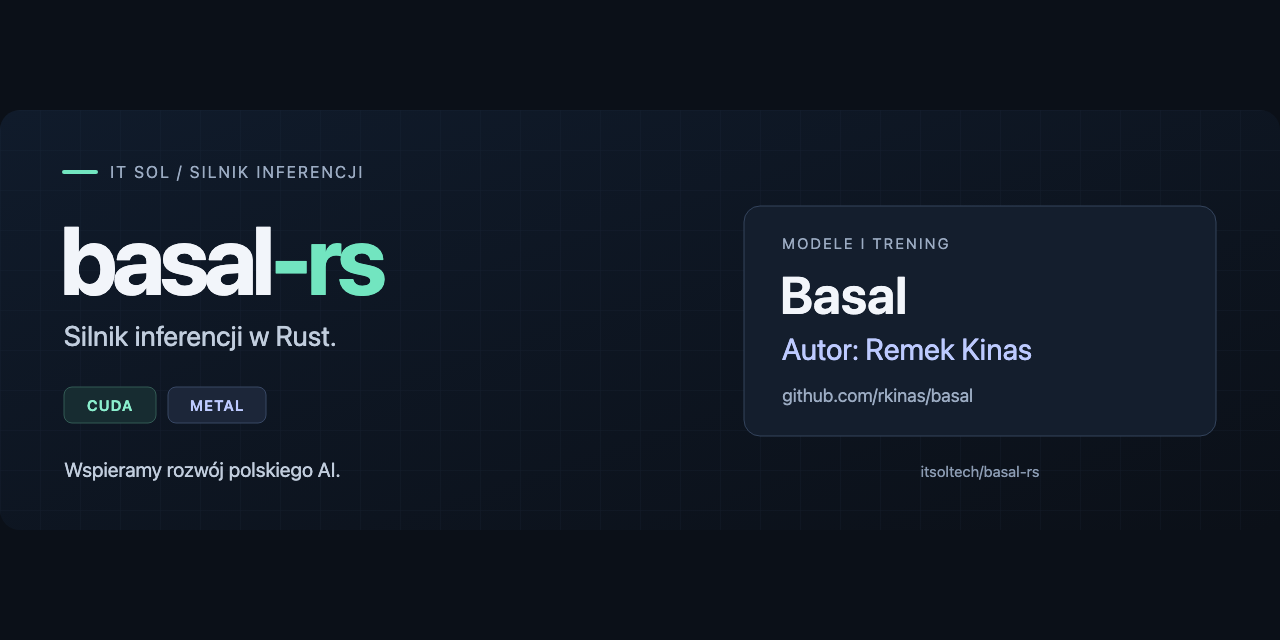
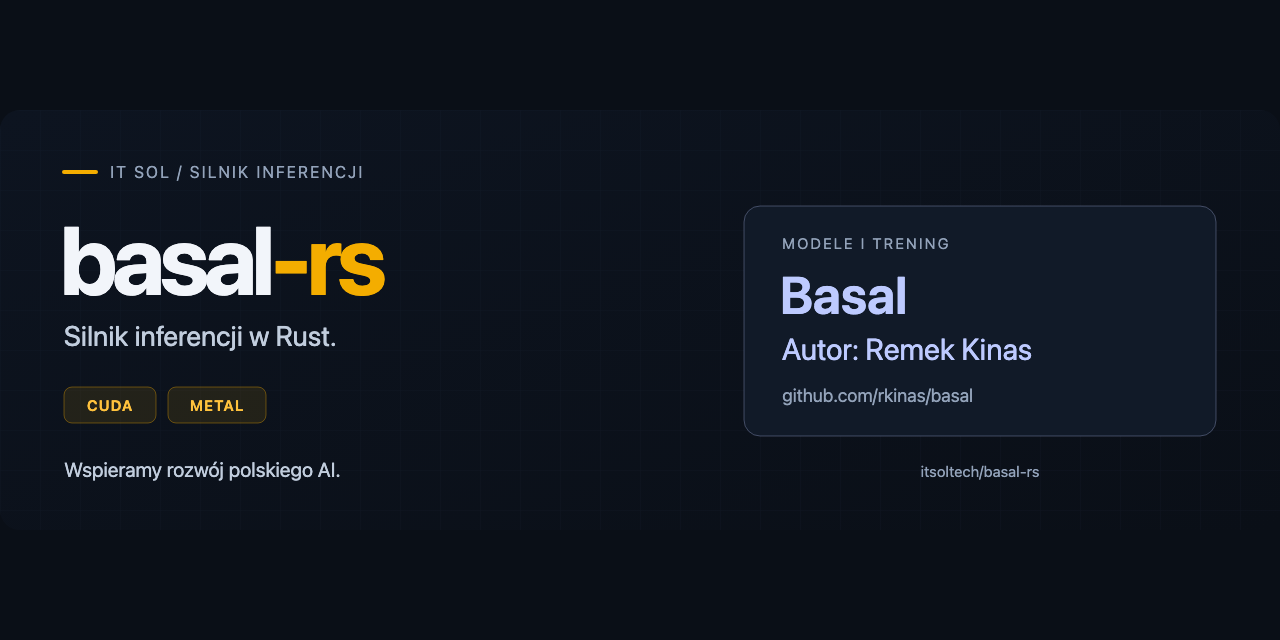
docs: align repository graphics with landing palette

Changed region(s): [[0.0625, 0.5938, 0.2188, 0.6875], [0.2188, 0.375, 0.3125, 0.4688], [0.5938, 0.4375, 0.7188, 0.5]]

diff --git a/docs/assets/README.md b/docs/assets/README.md
@@ -3,6 +3,12 @@
 - `basal-rs-banner.svg` — polski baner README z autorstwem modeli i silnika, edytowalny SVG bez zewnętrznych fontów i zasobów.
 - `social-preview.png` — grafika podglądu udostępnianego linku, 1280 × 640 px.
 
+Paleta odpowiada landing page basal-rs: żółty IT SOL (`#f4ad00`, jaśniejszy
+`#ffc23d`) oznacza silnik i jego backendy, lawenda (`#bdcaff`) modele Basal
+Remka Kinasa. Tło używa `#0a0f17` i `#0d1420`, a panel `#111a28`.
+Social preview to baner SVG wyśrodkowany na tle `#0a0f17`, z marginesami
+110 px nad i pod banerem.
+
 Opis repozytorium na GitHubie:
 
 > Rust inference engine for Basal models by Remek Kinas. GPU execution and HTTP serving with CUDA & Metal backends. Benchmarks against upstream.
